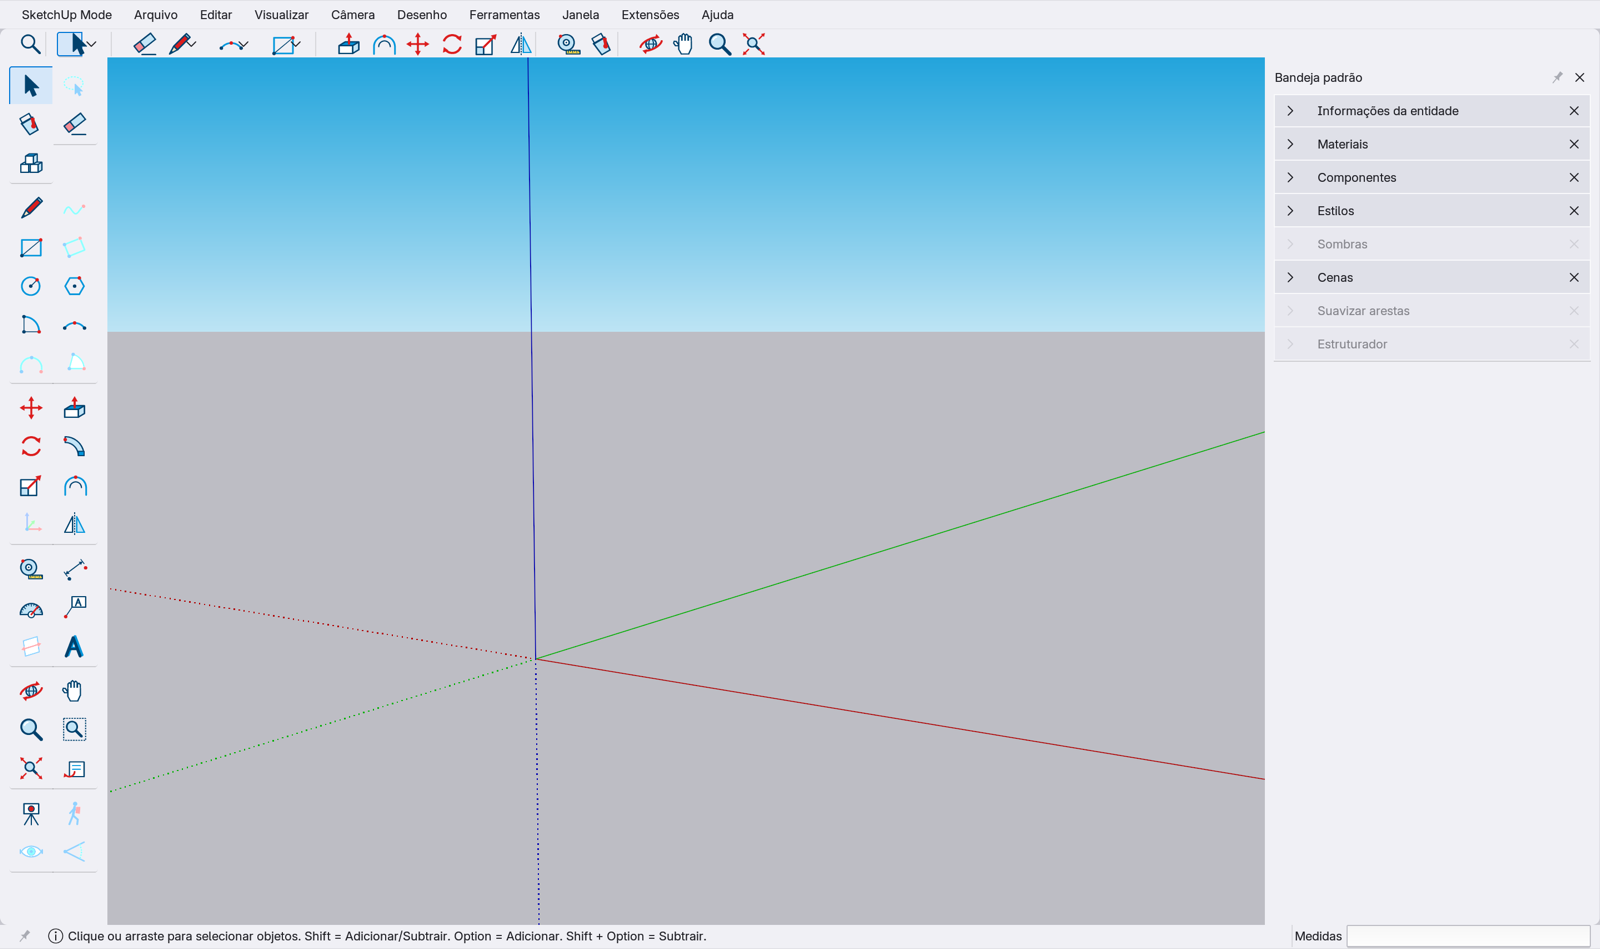
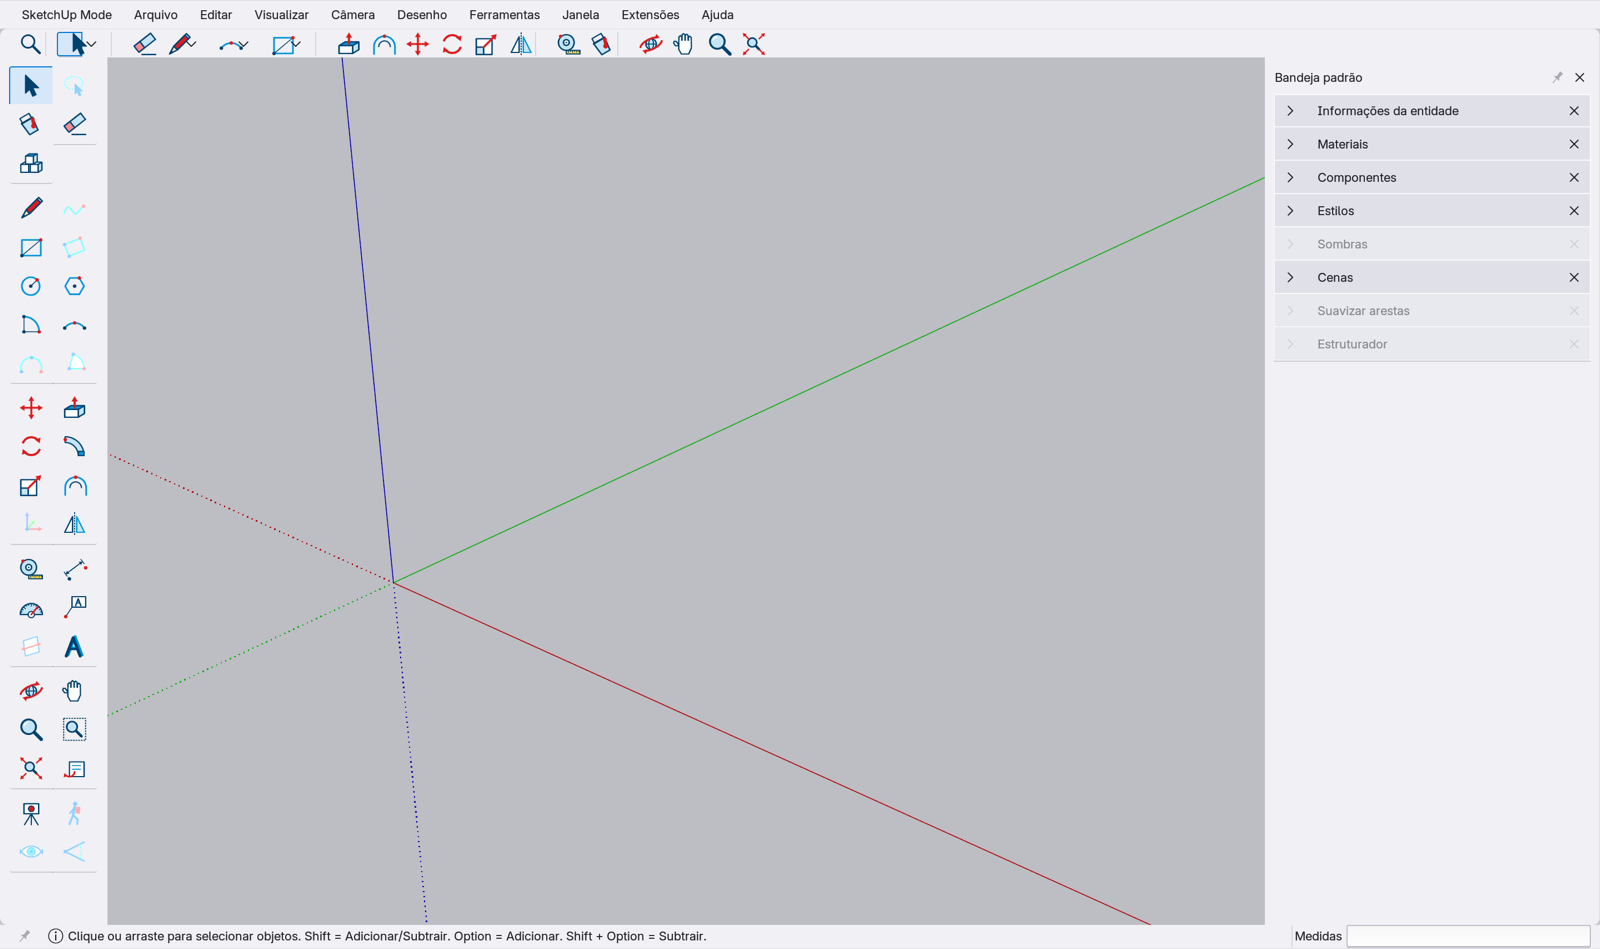
su(A): scn_casa overview camera (roof visible), inward-recess check; casa prints steps 0-7

Changed region(s): [[0.0625, 0.0611, 0.8125, 0.3667], [0.3125, 0.6723, 0.375, 0.7028], [0.375, 0.7028, 0.4062, 0.7334]]

diff --git a/tests/sketchup_mode/gui/scn_casa.py b/tests/sketchup_mode/gui/scn_casa.py
@@ -21,6 +21,10 @@ import bpy
 from mathutils import Vector
 
 
+VIEW_EYE = (17.0, -13.0, 11.0)       # overview from the front-right, above the roof
+VIEW_TARGET = (4.0, 3.0, 1.8)
+
+
 class Missing(Exception):
     pass
 
@@ -91,6 +95,16 @@ def run(h):
 
     # ---------------------------------------------------------------------------------------- 0
     T.reset_model()
+    # Overview camera (what a user does with orbit/zoom before working on the roof): the default start
+    # view has the eye ~1,3 m high, so the 3 m box fills the screen and its top is not visible.
+    win, area, R = h.area_regions()
+    rv3d = area.spaces.active.region_3d
+    eye, target = Vector(VIEW_EYE), Vector(VIEW_TARGET)
+    rv3d.view_perspective = 'PERSP'
+    rv3d.view_location = target
+    rv3d.view_distance = (eye - target).length
+    rv3d.view_rotation = (target - eye).normalized().to_track_quat('-Z', 'Y')
+    area.tag_redraw()
     yield 0.5
     s0 = bpy.context.scene.su_undo_serial
     states = []                                  # (serial, VAF) after each geometric step
@@ -184,7 +198,9 @@ def run(h):
         yield 0.2
         T.type_text(num(1, 2.1))
 
-    @step(7, "rebaixo da porta 0,15 (Empurrar/puxar)", (18, 27, 11))
+    inward = lambda st: (st["bbox"][0][1] > -1e-4, ("bbox", st["bbox"], "rebaixo para dentro: y mínimo deve ficar 0"))
+
+    @step(7, "rebaixo da porta 0,15 (Empurrar/puxar)", (18, 27, 11), inward)
     def _7():
         use("su.pushpull")
         move((4.5, 0, 1.0))
@@ -206,7 +222,7 @@ def run(h):
         yield 0.2
         T.type_text(num(1.2, 1.2))
 
-    @step(9, "rebaixo da janela 0,1 (Empurrar/puxar)", (26, 39, 16))
+    @step(9, "rebaixo da janela 0,1 (Empurrar/puxar)", (26, 39, 16), inward)
     def _9():
         use("su.pushpull")
         move((1.6, 0, 1.5))
